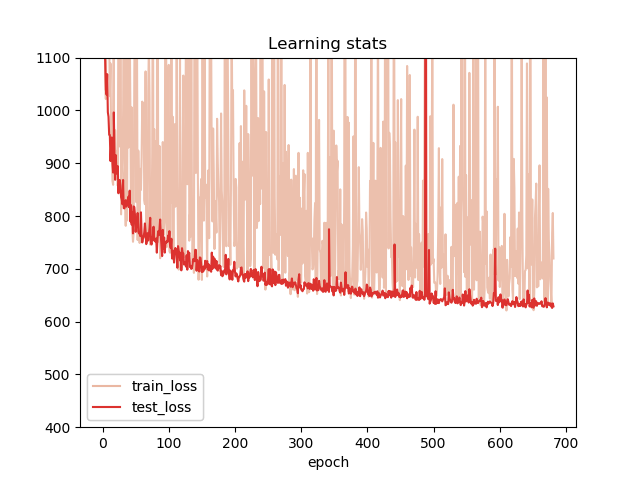
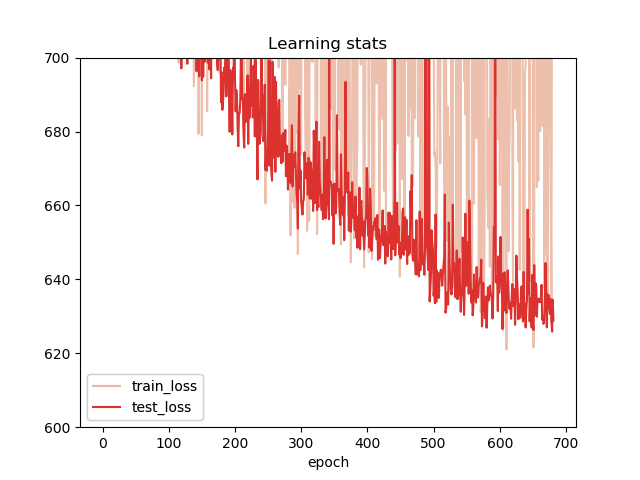
just pushing

diff --git a/plot_loss.py b/plot_loss.py
@@ -55,7 +55,8 @@ def plot_loss(filename, log_fp='data/res_3-8-32/log', train=False, test=True, hi
 den_mnist_param_loss= {
                  'log_fp' : 'data/dense_test6/log',
                  'filename': './figs/dmnist_loss.png',
-                 'ylimits': (400, 1100),
+                 # 'ylimits': (400, 1100),
+                 'ylimits': (600, 700),
                  # 'threshold': 1100,
                          'train': True,
                          'test': True,
@@ -79,7 +80,8 @@ den_mnist_param_bpd = {
 res_mnist_param_loss = {
                  'log_fp' : 'data/res_3-8-32/log',
                  'filename': './figs/rmnist_loss.png',
-                 'ylimits': (400, 1100),
+                 # 'ylimits': (400, 1100),
+                 'ylimits': (600, 700),
                  # 'threshold': 1100,
                          'train': True,
                          'test': True,
